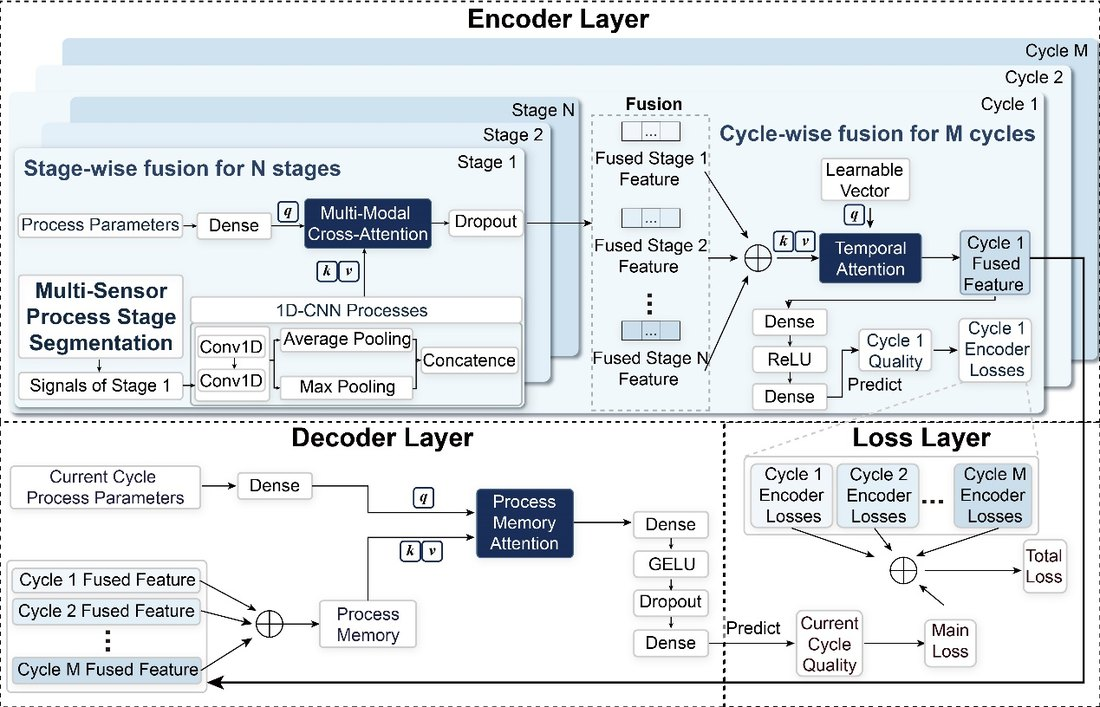
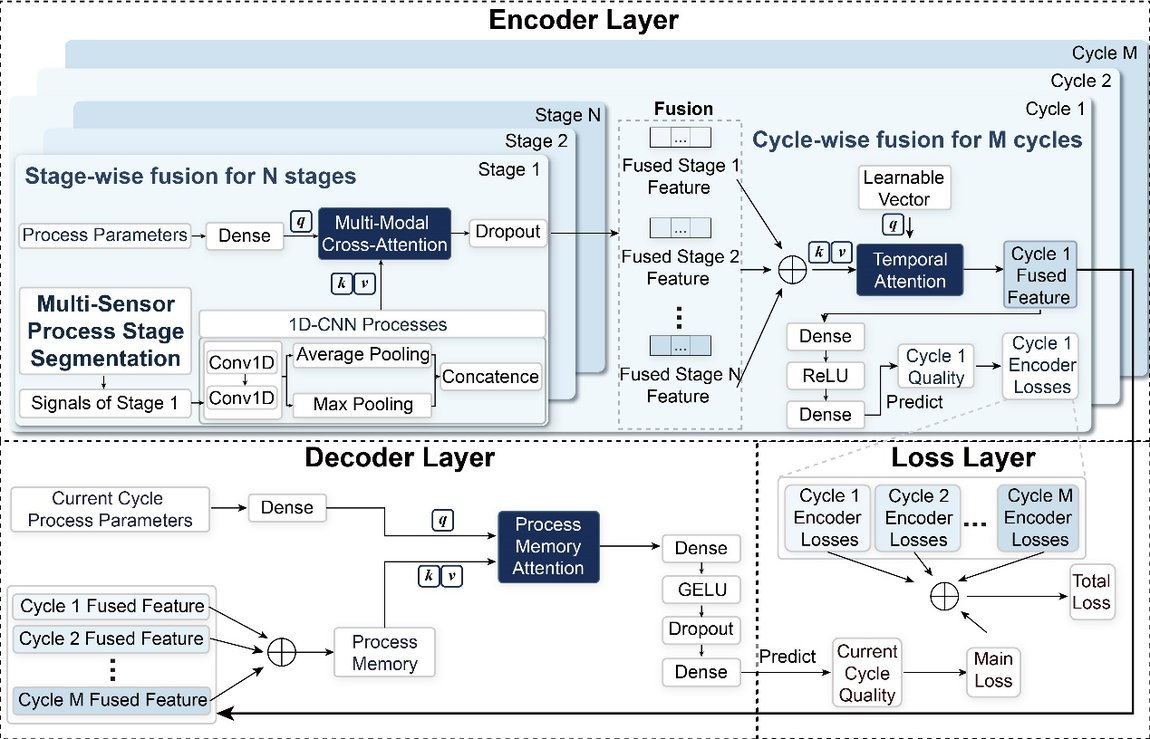
Add files via upload

diff --git a/projects/b03-rag.html b/projects/b03-rag.html
@@ -3,7 +3,7 @@
 <head>
 <meta charset="UTF-8">
 <meta name="viewport" content="width=device-width, initial-scale=1.0">
-<title>大模型辅助的工艺参数推荐（知识库增强 RAG） | 姚涵非 Hanfei Yao</title>
+<title>大模型辅助的工艺参数推荐（RAG）| 姚涵非 Hanfei Yao</title>
 <link rel="stylesheet" href="detail.css">
 </head>
 <body>
@@ -15,13 +15,55 @@
 <main class="dwrap">
   <div class="dhero">
     <h1><span data-zh>大模型辅助的工艺参数推荐（知识库增强 RAG）</span><span data-en>LLM-assisted Parameter Recommendation (Knowledge-augmented RAG)</span></h1>
-    <div class="dmeta"><span class="chip k"><span data-zh>本人参与</span><span data-en>Contributor</span></span><span class="chip"><span data-zh>中文核心《精密成形工程》· 已发表</span><span data-en>CSCD-core (J. Netshape Forming Eng.) · published</span></span><span class="chip"><span data-zh>RAG · 本地大模型</span><span data-en>RAG · local LLM</span></span></div>
-    <p class="dlede"><span data-zh>针对注射成形工艺调试“依赖经验、试错成本高、周期长”的问题，构建知识库增强(RAG)的生成式大模型工艺优化框架：自动搜集 819 篇中英文文献 → 切分 + 嵌入成向量知识库 → 本地部署大模型按“实际与目标质量偏差”动态生成参数调整建议并给出推理依据；在 PC、PMMA 等材料上 3 轮内精准收敛至目标质量，显著优于无知识库大模型与人工试错（需 7 轮以上）。</span><span data-en>For molding tuning that is experience-dependent, costly and slow, this builds a knowledge-augmented (RAG) generative-LLM framework: auto-collect 819 Chinese/English papers → chunk + embed into a vector knowledge base → a locally deployed LLM generates parameter adjustments with reasoning based on the gap between actual and target quality; on PC, PMMA and more it converges to target within 3 rounds, far better than an LLM without the knowledge base or manual trial-and-error (7+ rounds).</span></p>
+    <div class="dmeta">
+      <span class="chip k"><span data-zh>本人参与</span><span data-en>Contributor</span></span>
+      <span class="chip"><span data-zh>中文核心《精密成形工程》· 已发表</span><span data-en>CSCD-core (J. Netshape Forming Eng.) · published</span></span>
+      <span class="chip"><span data-zh>检索增强生成 (RAG)</span><span data-en>RAG</span></span>
+      <span class="chip"><span data-zh>本地大模型</span><span data-en>Local LLM</span></span>
+    </div>
+    <p class="dlede"><span data-zh>针对注射成形工艺调试"依赖经验、试错成本高、周期长"的问题，构建知识库增强(RAG)的生成式大模型工艺优化框架：自动搜集 819 篇中英文文献，用<b>嵌入模型</b>切分编码成<b>向量知识库</b>；本地部署大模型按"实际与目标质量偏差"做<b>检索增强生成</b>，动态给出参数调整建议并附推理依据；在 PC、PMMA 等材料上 3 轮内精准收敛至目标质量，显著优于无知识库大模型与人工试错（需 7 轮以上）。</span><span data-en>For molding tuning that is experience-dependent, costly and slow, this builds a knowledge-augmented (RAG) generative-LLM framework: 819 papers are chunked and encoded by an <b>embedding model</b> into a <b>vector knowledge base</b>; a locally deployed LLM performs <b>retrieval-augmented generation</b> based on the gap between actual and target quality, giving parameter advice with reasoning; on PC, PMMA and more it converges within 3 rounds—far better than an LLM without the knowledge base or manual trial-and-error (7+ rounds).</span></p>
   </div>
-  <section class="dsec"><h2><span data-zh>背景</span><span data-en>Background</span></h2><p><span data-zh>注塑调参高度依赖老师傅经验，试错成本高、周期长，新人上手慢。</span><span data-en>Molding tuning relies heavily on veteran experience—costly, slow, and hard for newcomers.</span></p></section>
-  <section class="dsec"><h2><span data-zh>方法</span><span data-en>Method</span></h2><ul><li><span data-zh>自动搜集 819 篇中英文工艺文献 → 文档切分 → 嵌入模型 → 向量知识库。</span><span data-en>Auto-collect 819 papers → document chunking → embedding model → vector knowledge base.</span></li><li><span data-zh>本地部署生成式大模型，按质量偏差检索增强生成参数调整建议与推理依据（Zotero / AnythingLLM / Ollama）。</span><span data-en>Locally deployed LLM does retrieval-augmented generation of parameter advice with reasoning, by the quality gap (Zotero / AnythingLLM / Ollama).</span></li></ul></section>
-  <section class="dsec"><h2><span data-zh>结果</span><span data-en>Results</span></h2><ul><li><span data-zh>PC、PMMA 等材料 3 轮内收敛至目标质量；无知识库大模型与人工试错（7 轮+）均不及。</span><span data-en>Converges within 3 rounds on PC/PMMA; beats the no-knowledge-base LLM and manual trial-and-error (7+ rounds).</span></li><li><span data-zh>成果发表于中文核心《精密成形工程》。</span><span data-en>Published in the CSCD-core Journal of Netshape Forming Engineering.</span></li></ul></section>
-  <section class="dsec"><h2><span data-zh>图片</span><span data-en>Figures</span></h2><div class="gallery"><figure><a href="img/b03-kb.jpg" target="_blank"><img src="img/b03-kb.jpg" alt=""></a><figcaption><span data-zh>知识库构建流程（文献检索 → 切分 → 嵌入 → 向量库）</span><span data-en>Knowledge-base pipeline (search → chunk → embed → vector store)</span></figcaption></figure><figure><a href="img/b03-rag.jpg" target="_blank"><img src="img/b03-rag.jpg" alt=""></a><figcaption><span data-zh>检索增强推理流程（偏差 → 检索 → 增强 → 大模型）</span><span data-en>RAG inference (gap → retrieve → augment → LLM)</span></figcaption></figure></div><p class="note" style="margin-top:12px"><span data-zh>本人角色：参与该课题组合作研究，涉及本地大模型部署、知识库构建与实验等环节。</span><span data-en>My role: contributed to this collaborative lab research—local LLM deployment, knowledge-base construction and experiments.</span></p></section>
+
+  <section class="dsec">
+    <h2><span data-zh>背景</span><span data-en>Background</span></h2>
+    <p><span data-zh>注塑调参高度依赖老师傅经验，试错成本高、周期长，新人上手慢。</span><span data-en>Molding tuning relies heavily on veteran experience—costly, slow, and hard for newcomers.</span></p>
+  </section>
+
+  <section class="dsec">
+    <h2><span data-zh>方法</span><span data-en>Method</span></h2>
+    <ul>
+      <li><span data-zh><b>构建向量知识库：</b>自动搜集 819 篇中英文工艺文献 → 文档切分 → 嵌入模型编码 → 向量知识库。</span><span data-en><b>Build the vector knowledge base:</b> auto-collect 819 papers → chunking → embedding-model encoding → vector store.</span></li>
+      <li><span data-zh><b>检索增强生成：</b>本地部署大模型，按当前与目标质量的偏差检索相关知识，增强生成参数调整建议与推理依据（Zotero / AnythingLLM / Ollama）。</span><span data-en><b>Retrieval-augmented generation:</b> a local LLM retrieves relevant knowledge by the quality gap and generates parameter advice with reasoning (Zotero / AnythingLLM / Ollama).</span></li>
+    </ul>
+  </section>
+
+  <section class="dsec">
+    <h2><span data-zh>结果与亮点</span><span data-en>Results & Highlights</span></h2>
+    <ul>
+      <li><span data-zh>PC、PMMA 等材料 3 轮内收敛至目标质量；无知识库大模型与人工试错（7 轮+）均不及。</span><span data-en>Converges within 3 rounds on PC/PMMA; beats the no-knowledge-base LLM and manual trial-and-error (7+ rounds).</span></li>
+      <li><span data-zh>在真实注塑机上验证：4 模内将重量误差降至 0（见下表 10）。</span><span data-en>Validated on a real molding machine: weight error reduced to 0 within 4 molds (Table 10 below).</span></li>
+      <li><span data-zh>成果发表于中文核心《精密成形工程》。</span><span data-en>Published in the CSCD-core Journal of Netshape Forming Engineering.</span></li>
+    </ul>
+  </section>
+
+  <section class="dsec">
+    <h2><span data-zh>方法框架</span><span data-en>Framework</span></h2>
+    <div class="gallery">
+      <figure><a href="img/b03-kb.jpg" target="_blank"><img src="img/b03-kb.jpg" alt=""></a><figcaption><span data-zh>知识库构建流程（图3）</span><span data-en>Knowledge-base construction (Fig.3)</span></figcaption></figure>
+      <figure><a href="img/b03-rag.jpg" target="_blank"><img src="img/b03-rag.jpg" alt=""></a><figcaption><span data-zh>检索增强推理流程（图1）</span><span data-en>Retrieval-augmented inference (Fig.1)</span></figcaption></figure>
+    </div>
+  </section>
+
+  <section class="dsec">
+    <h2><span data-zh>实验结果与实物</span><span data-en>Results & Real Setup</span></h2>
+    <div class="gallery">
+      <figure><a href="img/b03-res-table.jpg" target="_blank"><img src="img/b03-res-table.jpg" alt=""></a><figcaption><span data-zh>真实注塑机上的优化结果（表10：4 模内重量误差降至 0）</span><span data-en>Optimization on a real molding machine (Table 10: weight error → 0 within 4 molds)</span></figcaption></figure>
+      <figure><a href="img/b03-machine.jpg" target="_blank"><img src="img/b03-machine.jpg" alt=""></a><figcaption><span data-zh>泰瑞 DE168 注射成形机（实物，图5）</span><span data-en>Tederic DE168 molding machine (Fig.5)</span></figcaption></figure>
+      <figure><a href="img/b03-products.jpg" target="_blank"><img src="img/b03-products.jpg" alt=""></a><figcaption><span data-zh>成形制品（图6）</span><span data-en>Molded products (Fig.6)</span></figcaption></figure>
+    </div>
+    <p class="note" style="margin-top:12px"><span data-zh>本人角色：参与该课题组合作研究，涉及本地大模型部署、知识库构建与实验等环节。</span><span data-en>My role: contributed to this collaborative lab research—local LLM deployment, knowledge-base construction and experiments.</span></p>
+  </section>
+
   <div class="dfoot"><span data-zh>姚涵非 · </span><span data-en>Hanfei Yao · </span><a href="../index.html"><span data-zh>返回主页</span><span data-en>Back to home</span></a></div>
 </main>
 <script>

diff --git a/projects/b01-grasem.html b/projects/b01-grasem.html
@@ -3,7 +3,7 @@
 <head>
 <meta charset="UTF-8">
 <meta name="viewport" content="width=device-width, initial-scale=1.0">
-<title>少样本多目标工艺参数优化框架 GraSEM | 姚涵非 Hanfei Yao</title>
+<title>少样本多目标工艺优化框架 GraSEM | 姚涵非 Hanfei Yao</title>
 <link rel="stylesheet" href="detail.css">
 </head>
 <body>
@@ -15,13 +15,52 @@
 <main class="dwrap">
   <div class="dhero">
     <h1><span data-zh>少样本多目标工艺参数优化框架 GraSEM</span><span data-en>Few-shot Multi-objective Process Optimization (GraSEM)</span></h1>
-    <div class="dmeta"><span class="chip k"><span data-zh>第一作者 · 本人主导</span><span data-en>First author · led by me</span></span><span class="chip"><span data-zh>一作 SCI · IJAMT (IF 3.1) 返修中</span><span data-en>First-author SCI · IJAMT (IF 3.1), in revision</span></span><span class="chip"><span data-zh>中文核心 · 学生排一</span><span data-en>CSCD-core · first student author</span></span><span class="chip"><span data-zh>国家发明专利 · 实质审查中</span><span data-en>National patent · under examination</span></span><span class="chip"><span data-zh>产线落地</span><span data-en>Deployed on line</span></span></div>
-    <p class="dlede"><span data-zh>针对超精密制造（光学镜片等）中“参数-质量关系难建模、多目标冲突、收敛慢且不稳”的痛点，提出无模型多目标工艺优化框架 GraSEM：用 Taylor-QR 梯度求解器从病态历史数据中精确重构不可观测梯度，用分阶段动量调节器自适应调步长，用解耦冲突解决器动态分配多目标权重；仿真中 7–9 次迭代稳定收敛、扰动后 1–2 步恢复、稳态误差较贝叶斯优化降 90%+，并在超精密光学镜片注塑产线上较 ADAM 综合质量评分提升 33%+。</span><span data-en>For precision manufacturing (e.g., optical lenses) plagued by hard-to-model parameter–quality relations, conflicting objectives, and slow/unstable convergence, GraSEM is a model-free multi-objective framework: a Taylor-QR gradient solver reconstructs unobservable gradients from ill-conditioned historical data, a staged momentum regulator adapts the step size, and a decoupled conflict resolver dynamically weights objectives; in simulation it converges stably in 7–9 iterations, recovers in 1–2 steps after disturbances, lowers steady-state error 90%+ vs. Bayesian optimization, and improves overall quality score 33%+ over ADAM on a real ultra-precision lens-molding line.</span></p>
+    <div class="dmeta">
+      <span class="chip k"><span data-zh>第一作者 · 本人主导</span><span data-en>First author · led by me</span></span>
+      <span class="chip"><span data-zh>一作 SCI · IJAMT (IF 3.1) 返修中</span><span data-en>First-author SCI · IJAMT (IF 3.1), in revision</span></span>
+      <span class="chip"><span data-zh>中文核心 · 学生排一</span><span data-en>CSCD-core · first student author</span></span>
+      <span class="chip"><span data-zh>国家发明专利 · 实质审查中</span><span data-en>National patent · under examination</span></span>
+      <span class="chip"><span data-zh>产线落地</span><span data-en>Deployed on line</span></span>
+    </div>
+    <p class="dlede"><span data-zh>针对超精密制造（光学镜片等）中"参数-质量关系难建模、多目标冲突、收敛慢且不稳"的痛点，提出无模型多目标优化框架 GraSEM。它的<b>少样本</b>特性体现在两方面：只需<b>少量历史批次数据</b>、且只用<b>很少几次实机试验</b>即可优化——用 Taylor-QR 梯度求解器从病态历史数据中重构不可观测梯度，用分阶段动量调节器自适应调步长，用解耦冲突解决器动态分配多目标权重；仿真中 7–9 次迭代稳定收敛、扰动后 1–2 步恢复、稳态误差较贝叶斯优化降 90%+，并在超精密光学镜片注塑产线上较 ADAM 综合质量评分提升 33%+。</span><span data-en>For precision manufacturing (optical lenses) plagued by hard-to-model parameter–quality relations, conflicting objectives and slow/unstable convergence, GraSEM is a model-free multi-objective framework. Its <b>few-shot</b> nature is twofold: it needs only <b>a little historical batch data</b> and only <b>a few on-machine trials</b>. A Taylor-QR gradient solver reconstructs unobservable gradients from ill-conditioned historical data, a staged momentum regulator adapts the step size, and a decoupled conflict resolver weights objectives; in simulation it converges in 7–9 iterations, recovers in 1–2 steps after disturbances, lowers steady-state error 90%+ vs. Bayesian optimization, and improves overall quality score 33%+ over ADAM on a real lens-molding line.</span></p>
   </div>
-  <section class="dsec"><h2><span data-zh>背景</span><span data-en>Background</span></h2><p><span data-zh>精密制造中最终质量由几十个强耦合参数决定：参数-质量映射难建立、多指标相互冲突、参数范围广且质量高度敏感（要求初期快收敛、末期稳收敛）。传统田口法、基于模型法与贝叶斯优化各有局限。</span><span data-en>Final quality depends on dozens of coupled parameters: the mapping is hard to model, objectives conflict, and quality is highly sensitive over a wide range (needing fast early and stable late convergence). Taguchi, model-based and Bayesian methods each fall short.</span></p></section>
-  <section class="dsec"><h2><span data-zh>方法 / 我的工作</span><span data-en>Method / My Work</span></h2><ul><li><span data-zh>GraSEM 框架：三个协同模块解决梯度重构、收敛调节、多目标冲突。</span><span data-en>GraSEM: three cooperating modules solve gradient reconstruction, convergence regulation and objective conflict.</span></li><li><span data-zh>Taylor-QR 梯度求解器：二阶泰勒展开建线性方程；高维先 PCA 降维选近邻、带列主元 QR 分解筛样本、岭回归正则化，从病态共线历史数据重构不可观测物理梯度。</span><span data-en>Taylor-QR solver: second-order Taylor expansion → linear system; for high dimensions, PCA + nearest-neighbor selection, column-pivoted QR to pick samples, and ridge regression to reconstruct unobservable gradients from ill-conditioned data.</span></li><li><span data-zh>分阶段动量调节器：按误差阶段（高/中/低），用 IQR 剔异常做归一化，借鉴 ADAM 动态调一/二阶动量实现平稳收敛。</span><span data-en>Staged momentum regulator: by error stage (high/mid/low), IQR-based outlier removal and normalization, ADAM-style first/second-moment tuning for smooth convergence.</span></li><li><span data-zh>解耦冲突解决器：用梯度余弦相似度量化多目标冲突，凸组合求最短改进路径动态分配权重。</span><span data-en>Decoupled conflict resolver: cosine similarity quantifies conflict; a convex combination finds the shortest improving path and weights objectives.</span></li></ul></section>
-  <section class="dsec"><h2><span data-zh>结果</span><span data-en>Results</span></h2><ul><li><span data-zh>仿真 7–9 次迭代稳定收敛，扰动后 1–2 步恢复，稳态误差较贝叶斯优化降 90%+。</span><span data-en>Stable convergence in 7–9 iterations, 1–2-step recovery, 90%+ lower steady-state error vs. Bayesian.</span></li><li><span data-zh>在富强鑫透镜、舜宇成型机真实产线落地，较 ADAM 综合质量评分提升 33%+。</span><span data-en>Deployed on real lines (FCS lens, Sunny molding machine), 33%+ higher quality score than ADAM.</span></li><li><span data-zh>一作英文论文（IJAMT，返修中）+ 中文核心（学生排一）+ 国家发明专利（实质审查中）。</span><span data-en>First-author paper (IJAMT, in revision) + CSCD-core (first student author) + national patent (under examination).</span></li></ul></section>
-  <section class="dsec"><h2><span data-zh>图片</span><span data-en>Figures</span></h2><div class="gallery"><figure><a href="img/b01-fw.jpg" target="_blank"><img src="img/b01-fw.jpg" alt=""></a><figcaption><span data-zh>GraSEM 总体框架图（三模块协同）</span><span data-en>GraSEM overall framework (three modules)</span></figcaption></figure><figure><a href="img/b01-res.jpg" target="_blank"><img src="img/b01-res.jpg" alt=""></a><figcaption><span data-zh>与多种方法的综合质量评分对比</span><span data-en>Overall quality-score comparison vs. methods</span></figcaption></figure><figure><a href="img/b01-line.jpg" target="_blank"><img src="img/b01-line.jpg" alt=""></a><figcaption><span data-zh>超精密光学镜片注塑产线实拍</span><span data-en>Ultra-precision lens-molding line</span></figcaption></figure></div><p class="note" style="margin-top:12px"><span data-zh>本人角色：第一作者，独立完成方法设计、软件实现、仿真与实机实验、论文撰写；代码已开源（GitHub: JamaicaBoy/model-free-parameter-optimization）。</span><span data-en>My role: first author—method design, implementation, simulation and on-machine experiments, and writing; open-sourced (GitHub: JamaicaBoy/model-free-parameter-optimization).</span></p></section>
+
+  <section class="dsec">
+    <h2><span data-zh>背景</span><span data-en>Background</span></h2>
+    <p><span data-zh>精密制造中最终质量由几十个强耦合参数决定：参数-质量映射难建立、多指标相互冲突、参数范围广且质量高度敏感（要求初期快收敛、末期稳收敛）。传统田口法、基于模型法（代理模型需大量数据）与贝叶斯优化（迭代次数多）在精密制造中都不经济，因此需要一种<b>直接利用少量历史批次数据、无需显式模型</b>的高效方法。</span><span data-en>Final quality depends on dozens of coupled parameters: the mapping is hard to model, objectives conflict, and quality is highly sensitive over a wide range (needing fast early and stable late convergence). Taguchi, model-based (data-hungry surrogates) and Bayesian (many iterations) methods are all uneconomical here—so a method that <b>uses only a little historical data with no explicit model</b> is needed.</span></p>
+  </section>
+
+  <section class="dsec">
+    <h2><span data-zh>方法 / 我的工作</span><span data-en>Method / My Work</span></h2>
+    <ul>
+      <li><span data-zh><b>Taylor-QR 梯度求解器：</b>二阶泰勒展开把"参数微小变化↔质量变化"整理为线性方程；高维先 PCA 降维选近邻、用<b>带列主元 QR 分解</b>筛选最线性独立的少量样本、再用<b>岭回归正则化</b>求解，从病态共线的历史数据中重构不可观测的物理梯度——这正是它<b>少样本</b>的关键。</span><span data-en><b>Taylor-QR gradient solver:</b> a second-order Taylor expansion turns "small parameter change ↔ quality change" into a linear system; in high dimensions, PCA + nearest neighbors, <b>column-pivoted QR</b> to pick the few most independent samples, and <b>ridge regression</b> reconstruct the unobservable physical gradient from ill-conditioned data—the key to its few-shot property.</span></li>
+      <li><span data-zh><b>分阶段动量调节器：</b>按质量反馈的误差阶段（高/中/低），借鉴 ADAM 的一/二阶动量思想动态自适应调整步长，兼顾快速与平稳收敛。</span><span data-en><b>Staged momentum regulator:</b> by error stage (high/mid/low), ADAM-style first/second-moment tuning adapts the step size for both fast and stable convergence.</span></li>
+      <li><span data-zh><b>解耦冲突解决器：</b>用梯度余弦相似度量化多目标方向冲突，在梯度凸组合空间求"所有指标同步改善且效率最高"的最短路径，动态分配权重。</span><span data-en><b>Decoupled conflict resolver:</b> cosine similarity quantifies inter-objective conflict; a convex combination of gradients finds the shortest path improving all objectives, weighting them dynamically.</span></li>
+      <li><span data-zh><b>仿真 + 实机验证：</b>仿真做敏感性与消融；在富强鑫透镜、舜宇成型机真实产线落地，与试模人员协同选取注射/保压压力、料筒温度等真实参数完成实机优化闭环。</span><span data-en><b>Simulation + on-machine:</b> sensitivity and ablation in simulation; deployed on real lines (FCS lens, Sunny machine), co-selecting real parameters (injection/holding pressure, barrel temperature) with operators.</span></li>
+    </ul>
+  </section>
+
+  <section class="dsec">
+    <h2><span data-zh>结果与亮点</span><span data-en>Results & Highlights</span></h2>
+    <ul>
+      <li><span data-zh><b>少样本高效：</b>仅凭少量历史数据，仿真 7–9 次迭代即稳定收敛，扰动后 1–2 步恢复。</span><span data-en><b>Few-shot & efficient:</b> with only a little historical data, stable convergence in 7–9 iterations and 1–2-step recovery after disturbances.</span></li>
+      <li><span data-zh>稳态误差较贝叶斯优化降 90%+；产线较 ADAM 综合质量评分提升 33%+。</span><span data-en>90%+ lower steady-state error vs. Bayesian; 33%+ higher quality score than ADAM on the line.</span></li>
+      <li><span data-zh>一作英文论文（IJAMT，返修中）+ 中文核心（学生排一）+ 国家发明专利（实质审查中）。</span><span data-en>First-author paper (IJAMT, in revision) + CSCD-core (first student author) + national patent (under examination).</span></li>
+    </ul>
+  </section>
+
+  <section class="dsec">
+    <h2><span data-zh>方法框架与实验结果</span><span data-en>Framework & Experimental Results</span></h2>
+    <div class="gallery">
+      <figure><a href="img/b01-fw.jpg" target="_blank"><img src="img/b01-fw.jpg" alt=""></a><figcaption><span data-zh>GraSEM 总体框架图（Fig.1：梯度估计 + 分阶段动量 + 解耦冲突解决）</span><span data-en>GraSEM framework (Fig.1: gradient estimation + staged momentum + conflict resolver)</span></figcaption></figure>
+      <figure><a href="img/b01-res-conv.jpg" target="_blank"><img src="img/b01-res-conv.jpg" alt=""></a><figcaption><span data-zh>从 3 个不同初始参数出发的优化收敛轨迹（Fig.9）</span><span data-en>Convergence from 3 different starting parameter sets (Fig.9)</span></figcaption></figure>
+      <figure><a href="img/b01-res-perturb.jpg" target="_blank"><img src="img/b01-res-perturb.jpg" alt=""></a><figcaption><span data-zh>受外部扰动后的快速恢复对比（Fig.10）</span><span data-en>Fast recovery under external perturbation (Fig.10)</span></figcaption></figure>
+      <figure><a href="img/b01-res-methods.jpg" target="_blank"><img src="img/b01-res-methods.jpg" alt=""></a><figcaption><span data-zh>与不同参数更新方法的对比：综合 / 收敛 / 稳定性评分（Fig.13）</span><span data-en>Comparison vs. parameter-update methods: overall / convergence / stability (Fig.13)</span></figcaption></figure>
+      <figure><a href="img/b01-res-4obj.jpg" target="_blank"><img src="img/b01-res-4obj.jpg" alt=""></a><figcaption><span data-zh>真实注塑机上的四目标优化收敛过程（Fig.14）</span><span data-en>Four-objective optimization on a real molding machine (Fig.14)</span></figcaption></figure>
+    </div>
+    <p class="note" style="margin-top:12px"><span data-zh>本人角色：第一作者，独立完成方法设计、软件实现、仿真与实机实验、论文撰写；代码已开源（GitHub: JamaicaBoy/model-free-parameter-optimization）。</span><span data-en>My role: first author—method, implementation, simulation and on-machine experiments, writing; open-sourced (GitHub: JamaicaBoy/model-free-parameter-optimization).</span></p>
+  </section>
+
   <div class="dfoot"><span data-zh>姚涵非 · </span><span data-en>Hanfei Yao · </span><a href="../index.html"><span data-zh>返回主页</span><span data-en>Back to home</span></a></div>
 </main>
 <script>

diff --git a/projects/b02-cspm.html b/projects/b02-cspm.html
@@ -3,7 +3,7 @@
 <head>
 <meta charset="UTF-8">
 <meta name="viewport" content="width=device-width, initial-scale=1.0">
-<title>生产前产品质量智能预测（CSPM-Net） | 姚涵非 Hanfei Yao</title>
+<title>生产前产品质量智能预测 CSPM-Net | 姚涵非 Hanfei Yao</title>
 <link rel="stylesheet" href="detail.css">
 </head>
 <body>
@@ -15,13 +15,50 @@
 <main class="dwrap">
   <div class="dhero">
     <h1><span data-zh>生产前产品质量智能预测（CSPM-Net）</span><span data-en>Pre-production Quality Prediction (CSPM-Net)</span></h1>
-    <div class="dmeta"><span class="chip k"><span data-zh>第一作者 · 本人主导</span><span data-en>First author · led by me</span></span><span class="chip"><span data-zh>一作 SCI · AEI (IF 9.9) 审稿中</span><span data-en>First-author SCI · AEI (IF 9.9), under review</span></span><span class="chip"><span data-zh>国家发明专利 · 已受理</span><span data-en>National patent · accepted</span></span><span class="chip"><span data-zh>代表性工作</span><span data-en>Flagship</span></span></div>
-    <p class="dlede"><span data-zh>针对“开机前只有工艺参数、没有当前批次传感器数据时如何预测产品质量”的难题，提出跨模态阶段感知过程记忆网络 CSPM-Net：把历史批次的丰富传感器知识压缩成“可被参数查询的记忆表示”，新批次仅凭参数设定即可检索相关传感器派生知识做生产前(pre-cycle)质量预测；PC 数据集透光率/重量 RMSE 较最强基线分别降 36.3% / 22.1%，PMMA 数据集进一步验证一致提升。</span><span data-en>For the problem of predicting quality before startup—when only the planned parameters exist and current-cycle sensor data is unavailable—CSPM-Net (a cross-modal, stage-aware process-memory network) compresses rich historical sensor knowledge into a parameter-queryable memory, so a new batch can retrieve relevant sensor-derived knowledge for pre-cycle quality prediction; on PC datasets it cuts transmittance/weight RMSE by 36.3% / 22.1% vs. the strongest baseline, confirmed on PMMA.</span></p>
+    <div class="dmeta">
+      <span class="chip k"><span data-zh>第一作者 · 本人主导</span><span data-en>First author · led by me</span></span>
+      <span class="chip"><span data-zh>一作 SCI · AEI (IF 9.9) 审稿中</span><span data-en>First-author SCI · AEI (IF 9.9), under review</span></span>
+      <span class="chip"><span data-zh>国家发明专利 · 已受理</span><span data-en>National patent · accepted</span></span>
+      <span class="chip"><span data-zh>代表性工作</span><span data-en>Flagship</span></span>
+    </div>
+    <p class="dlede"><span data-zh>针对"开机前只有工艺参数、没有当前批次传感器数据时如何预测产品质量"的难题，提出跨模态阶段感知过程记忆网络 CSPM-Net：把历史批次丰富的传感器知识压缩成"可被参数查询的过程记忆"，再用<b>阶段分割 + 时序注意力 + 跨模态交叉注意力机制</b>，让新批次仅凭参数设定就能检索相关历史经验做生产前(pre-cycle)质量预测；在 PC 数据集上透光率/重量 RMSE 较最强基线分别降 36.3% / 22.1%。</span><span data-en>For predicting quality before startup—when only parameters exist and current-cycle sensor data is unavailable—CSPM-Net (cross-modal, stage-aware process-memory network) compresses rich historical sensor knowledge into a parameter-queryable process memory and uses <b>stage segmentation + temporal attention + cross-modal cross-attention</b> so a new batch can retrieve relevant history for pre-cycle prediction; on PC it cuts transmittance/weight RMSE by 36.3% / 22.1% vs. the strongest baseline.</span></p>
   </div>
-  <section class="dsec"><h2><span data-zh>背景</span><span data-en>Background</span></h2><p><span data-zh>多相批次制造中质检存在大时延、无法实时反馈；开机前缺当前周期传感器数据，只能依靠历史数据提前预测质量。</span><span data-en>In multiphase batch manufacturing, inspection lags and gives no real-time feedback; before startup there is no current-cycle sensor data, so prediction must rely on historical data.</span></p></section>
-  <section class="dsec"><h2><span data-zh>方法 / 我的工作</span><span data-en>Method / My Work</span></h2><ul><li><span data-zh>把历史批次的传感器知识压缩为“可被参数查询”的过程记忆表示。</span><span data-en>Compress historical sensor knowledge into a parameter-queryable process-memory representation.</span></li><li><span data-zh>用动态规划做工艺阶段分段，区分不同阶段的过程模式。</span><span data-en>Segment process phases via dynamic programming to separate per-stage patterns.</span></li><li><span data-zh>用时序注意力 + 交叉注意力实现“仅凭参数”的开机前质量预测。</span><span data-en>Use temporal + cross attention for parameter-only, pre-cycle quality prediction.</span></li></ul></section>
-  <section class="dsec"><h2><span data-zh>结果</span><span data-en>Results</span></h2><ul><li><span data-zh>PC 数据集透光率/重量 RMSE 较最强基线降 36.3% / 22.1%；PMMA 一致提升。</span><span data-en>On PC, transmittance/weight RMSE down 36.3% / 22.1% vs. the best baseline; consistent gains on PMMA.</span></li><li><span data-zh>推荐参数在物理优化实验中产出接近目标的质量。</span><span data-en>Recommended parameters yield near-target quality in physical optimization experiments.</span></li><li><span data-zh>一作 SCI（AEI，IF 9.9，审稿中）+ 国家发明专利（已受理）。</span><span data-en>First-author SCI (AEI, IF 9.9, under review) + national patent (accepted).</span></li></ul></section>
-  <section class="dsec"><h2><span data-zh>图片</span><span data-en>Figures</span></h2><div class="gallery"><figure><a href="img/b02-fw.jpg" target="_blank"><img src="img/b02-fw.jpg" alt=""></a><figcaption><span data-zh>CSPM-Net 网络架构图（编解码 + 注意力）</span><span data-en>CSPM-Net architecture (encoder–decoder + attention)</span></figcaption></figure><figure><a href="img/b02-res.jpg" target="_blank"><img src="img/b02-res.jpg" alt=""></a><figcaption><span data-zh>多方法预测误差对比（MAE/RMSE）</span><span data-en>Prediction-error comparison vs. methods (MAE/RMSE)</span></figcaption></figure><figure><a href="img/b02-scatter.jpg" target="_blank"><img src="img/b02-scatter.jpg" alt=""></a><figcaption><span data-zh>预测值 vs 实测值</span><span data-en>Predicted vs. actual</span></figcaption></figure></div><p class="note" style="margin-top:12px"><span data-zh>本人角色：第一作者，主导方法设计、软件实现与实验；代码已开源（GitHub: JamaicaBoy/cspm-net）。</span><span data-en>My role: first author, leading the method, implementation and experiments; open-sourced (GitHub: JamaicaBoy/cspm-net).</span></p></section>
+
+  <section class="dsec">
+    <h2><span data-zh>背景</span><span data-en>Background</span></h2>
+    <p><span data-zh>多相批次制造中质检存在大时延、无法实时反馈；开机前缺当前周期传感器数据，只能依靠历史数据提前预测质量。</span><span data-en>In multiphase batch manufacturing, inspection lags with no real-time feedback; before startup there is no current-cycle sensor data, so prediction must rely on history.</span></p>
+  </section>
+
+  <section class="dsec">
+    <h2><span data-zh>方法 / 我的工作</span><span data-en>Method / My Work</span></h2>
+    <ul>
+      <li><span data-zh><b>过程记忆库：</b>把历史批次的传感器时序知识压缩为"可被参数查询"的记忆表示，新批次用参数作为查询键检索相似历史经验。</span><span data-en><b>Process memory bank:</b> compress historical sensor time-series into a parameter-queryable memory; a new batch uses its parameters as the query key to retrieve similar past experience.</span></li>
+      <li><span data-zh><b>阶段分割：</b>用一致性断点方法把过程按工艺阶段切分（分割精度 &gt;99%），区分各阶段模式。</span><span data-en><b>Stage segmentation:</b> a consistency-breakpoint method splits the process by phase (>99% accuracy) to separate per-stage patterns.</span></li>
+      <li><span data-zh><b>注意力机制：</b>用时序注意力定位关键时间步、用跨模态交叉注意力把"参数模态"与"传感器记忆模态"对齐，实现仅凭参数的开机前预测。</span><span data-en><b>Attention:</b> temporal attention locates key time steps and cross-modal cross-attention aligns the "parameter" and "sensor-memory" modalities for parameter-only pre-cycle prediction.</span></li>
+    </ul>
+  </section>
+
+  <section class="dsec">
+    <h2><span data-zh>结果与亮点</span><span data-en>Results & Highlights</span></h2>
+    <ul>
+      <li><span data-zh>PC 数据集透光率/重量 RMSE 较最强基线降 36.3% / 22.1%；PMMA 一致提升。</span><span data-en>On PC, transmittance/weight RMSE down 36.3% / 22.1% vs. the best baseline; consistent gains on PMMA.</span></li>
+      <li><span data-zh>推荐参数经 NSGA-II 多目标寻优后，在物理实验中产出接近目标的质量。</span><span data-en>After NSGA-II multi-objective search, recommended parameters yield near-target quality in physical experiments.</span></li>
+      <li><span data-zh>一作 SCI（AEI，IF 9.9，审稿中）+ 国家发明专利（已受理）。</span><span data-en>First-author SCI (AEI, IF 9.9, under review) + national patent (accepted).</span></li>
+    </ul>
+  </section>
+
+  <section class="dsec">
+    <h2><span data-zh>方法框架与实验结果</span><span data-en>Framework & Experimental Results</span></h2>
+    <div class="gallery">
+      <figure><a href="img/b02-fw.jpg" target="_blank"><img src="img/b02-fw.jpg" alt=""></a><figcaption><span data-zh>CSPM-Net 网络架构：编解码 + 注意力（Fig.1）</span><span data-en>CSPM-Net architecture: encoder–decoder + attention (Fig.1)</span></figcaption></figure>
+      <figure><a href="img/b02-res-acc.jpg" target="_blank"><img src="img/b02-res-acc.jpg" alt=""></a><figcaption><span data-zh>与传感器型深度学习方法的精度对比（Fig.5）</span><span data-en>Accuracy vs. sensor-based deep-learning methods (Fig.5)</span></figcaption></figure>
+      <figure><a href="img/b02-res-error.jpg" target="_blank"><img src="img/b02-res-error.jpg" alt=""></a><figcaption><span data-zh>与"仅用参数"方法的预测误差对比（Fig.6）</span><span data-en>Prediction-error vs. parameter-only methods (Fig.6)</span></figcaption></figure>
+      <figure><a href="img/b02-res-target.jpg" target="_blank"><img src="img/b02-res-target.jpg" alt=""></a><figcaption><span data-zh>目标 / 预测 / 实测质量对比（Fig.13）</span><span data-en>Target / predicted / measured comparison (Fig.13)</span></figcaption></figure>
+      <figure><a href="img/b02-res-nsga.jpg" target="_blank"><img src="img/b02-res-nsga.jpg" alt=""></a><figcaption><span data-zh>NSGA-II 面向三个质量目标的优化轨迹（Fig.12）</span><span data-en>NSGA-II optimization toward three quality targets (Fig.12)</span></figcaption></figure>
+    </div>
+    <p class="note" style="margin-top:12px"><span data-zh>本人角色：第一作者，主导方法设计、软件实现与实验；代码已开源（GitHub: JamaicaBoy/cspm-net）。</span><span data-en>My role: first author, leading the method, implementation and experiments; open-sourced (GitHub: JamaicaBoy/cspm-net).</span></p>
+  </section>
+
   <div class="dfoot"><span data-zh>姚涵非 · </span><span data-en>Hanfei Yao · </span><a href="../index.html"><span data-zh>返回主页</span><span data-en>Back to home</span></a></div>
 </main>
 <script>

diff --git a/index.html b/index.html
@@ -213,7 +213,7 @@
       <h3><span data-zh>生产前产品质量智能预测</span><span data-en>Pre-production Product Quality Prediction</span></h3>
       <ul>
         <li><span data-zh>解决的问题：在一批产品正式生产之前，仅凭设定好的工艺参数就提前预测成品质量是否达标，帮助工厂在开机前筛掉有风险的参数，减少废品和反复试模。</span><span data-en>The problem: before a batch goes into production, predict whether the product will meet quality targets using only the planned process settings—so the factory can screen out risky parameters before startup, cutting scrap and repeated trial molding.</span></li>
-        <li><span data-zh>做法：把工厂以往的大量生产数据整理成一个可检索的"经验库"，让当前的参数设置自动对照最相似的历史批次，从而给出可靠的质量预测。</span><span data-en>The approach: turn the factory's large body of past production data into a searchable "experience base," so the current settings are automatically matched against the most similar historical batches to yield a reliable prediction.</span></li>
+        <li><span data-zh>原理：把历史批次的传感器数据压缩成一个"可被参数检索的过程记忆库"，先按工艺阶段做<b>阶段分割</b>，再用<b>时序注意力 + 跨模态交叉注意力机制</b>，让当前参数自动对齐最相关的历史经验，从而仅凭参数就给出可靠的开机前质量预测。</span><span data-en>How it works: historical sensor data is compressed into a "parameter-queryable process memory"; the process is split by <b>stage segmentation</b>, then <b>temporal + cross-modal cross-attention</b> aligns the current parameters with the most relevant past experience, giving a reliable pre-cycle prediction from parameters alone.</span></li>
         <li><span data-zh>效果：在真实生产数据上验证，质量预测误差比现有最好的方法最多降低 36%，更换材料后依然适用——这是我目前最有代表性的工作。</span><span data-en>The result: on real production data, prediction error is up to 36% lower than the best existing method and still holds when switching materials—my most representative work to date.</span></li>
       </ul>
       <div class="badges">
@@ -229,7 +229,7 @@
       <h3><span data-zh>少样本工艺参数智能优化</span><span data-en>Few-shot Process Parameter Optimization</span></h3>
       <ul>
         <li><span data-zh>解决的问题：高端制造里工艺参数多、试验贵，多个质量指标还常常互相冲突，靠人工试模又慢又不稳定。</span><span data-en>The problem: in high-end manufacturing there are many parameters, experiments are expensive, quality targets often conflict, and manual trial molding is slow and unstable.</span></li>
-        <li><span data-zh>做法：用很少几次试验加上历史数据，自动判断每个参数该往哪个方向调、调多少，不需要复杂的物理模型，也不需要大量训练数据。</span><span data-en>The approach: with just a few trials plus historical data, automatically decide which direction and how much to tune each parameter—no complex physics model and no large training set required.</span></li>
+        <li><span data-zh>原理（少样本）：只需<b>少量历史批次数据 + 很少几次试验</b>，用二阶泰勒展开把"参数变化↔质量变化"化为方程，再用 <b>QR 分解 + 岭回归</b>从少量病态数据中<b>估计梯度</b>，配合<b>自适应动量</b>调步长、并用余弦相似度<b>解耦多目标冲突</b>，无需物理模型即可又快又稳地寻优。</span><span data-en>How it works (few-shot): with only <b>a little historical data and very few trials</b>, a second-order Taylor expansion turns "parameter change ↔ quality change" into equations; <b>QR decomposition + ridge regression</b> <b>estimate the gradient</b> from scarce ill-conditioned data, an <b>adaptive momentum</b> tunes the step, and cosine similarity <b>decouples multi-objective conflicts</b>—optimizing fast and stably without a physics model.</span></li>
         <li><span data-zh>效果：在仿真和真实注塑机上验证，通常 7–9 次调整就能稳定达到目标，受到突发干扰后 1–2 次即可恢复，整体效果比常用方法提升 33% 以上。</span><span data-en>The result: validated in simulation and on real molding machines—usually reaches the target within 7–9 adjustments, recovers in 1–2 steps after a disturbance, and improves overall quality by 33%+ over common methods.</span></li>
       </ul>
       <div class="badges">
@@ -246,7 +246,7 @@
       <h3><span data-zh>大模型辅助的工艺参数推荐</span><span data-en>LLM-assisted Parameter Recommendation</span></h3>
       <ul>
         <li><span data-zh>解决的问题：注塑成型调参高度依赖老师傅经验，新人上手慢、试错成本高。</span><span data-en>The problem: injection-molding tuning relies heavily on veteran experience—newcomers ramp up slowly and trial-and-error is costly.</span></li>
-        <li><span data-zh>做法：把领域内 819 篇中英文文献做成本地知识库，让大模型像有经验的工艺工程师一样，根据当前质量与目标的差距给出调参建议并解释原因。</span><span data-en>The approach: build a local knowledge base from 819 Chinese/English papers so an LLM acts like an experienced process engineer—recommending parameter changes with reasons, based on the gap to target.</span></li>
+        <li><span data-zh>原理：把 819 篇中英文文献用<b>嵌入模型</b>编码成<b>向量知识库</b>，本地大模型按当前与目标质量的差距做<b>检索增强生成（RAG）</b>，像有经验的工艺工程师一样给出调参建议并附推理依据。</span><span data-en>How it works: 819 papers are encoded by an <b>embedding model</b> into a <b>vector knowledge base</b>; based on the gap to target, a local LLM performs <b>retrieval-augmented generation (RAG)</b>, giving parameter advice with reasoning like an experienced engineer.</span></li>
         <li><span data-zh>效果：在多种材料的仿真任务里，基本 3 轮内就能调到目标质量范围。</span><span data-en>The result: across multi-material simulation tasks, it reaches the target quality range within about 3 rounds.</span></li>
       </ul>
       <div class="badges">